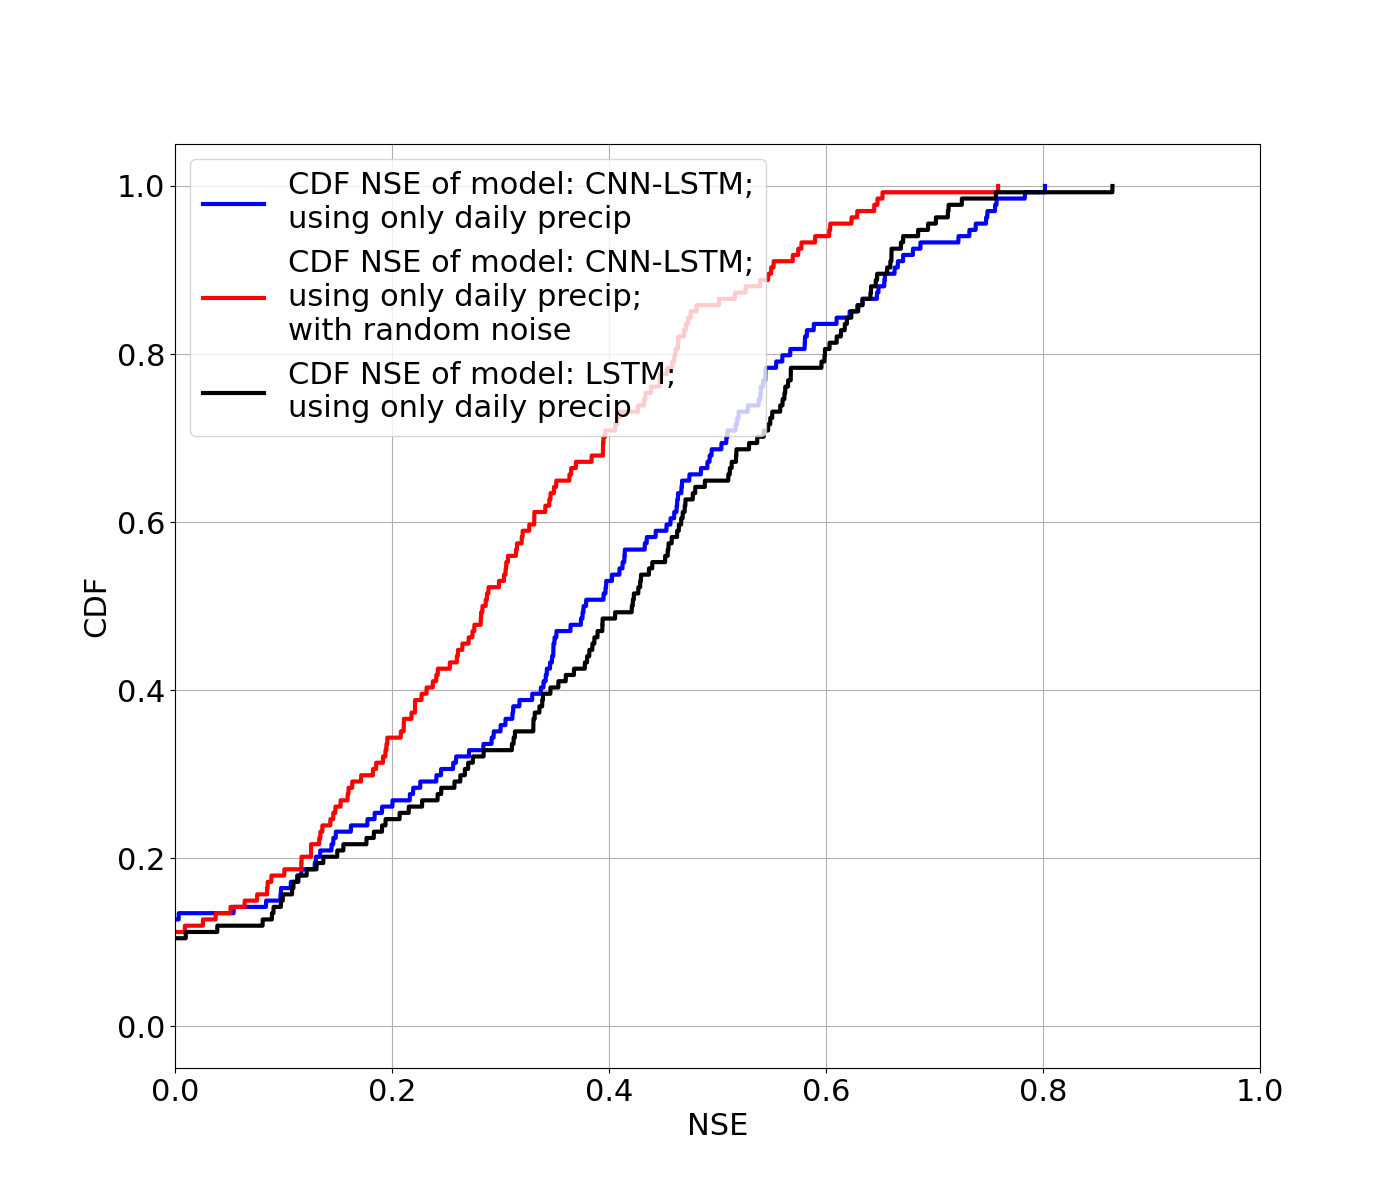
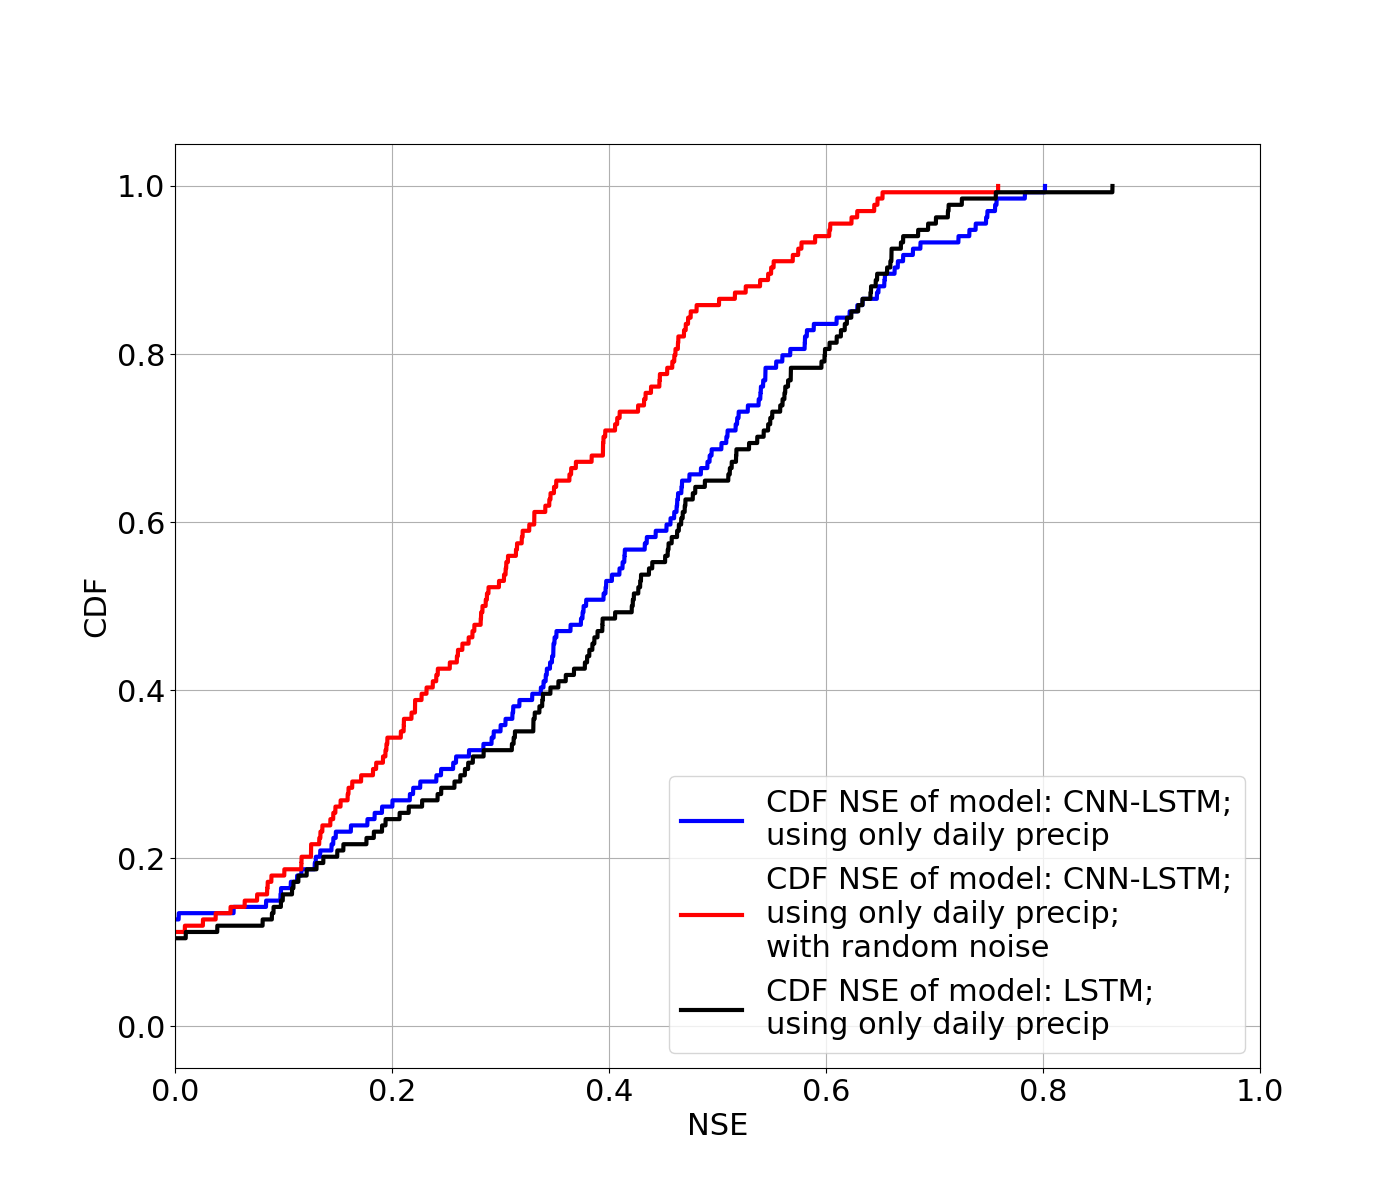
changing config

diff --git a/src/create_CDF_NSE_comparison_plot_from_slurm_output.py b/src/create_CDF_NSE_comparison_plot_from_slurm_output.py
@@ -215,7 +215,7 @@ def plot_NSE_CDF_graphs_my_code():
                     label=f"CDF NSE of model: {model_name.replace('_', '-')}")
         # if plot_title != "":
         #     plt.title(plot_title)
-        plt.legend(loc='upper left')
+        plt.legend(loc='lower right')
         plt.grid()
         plt.savefig("NSE_CDF" + f"_{'_'.join(pair_model_names)}".replace('\n', ' '))
         plt.clf()
